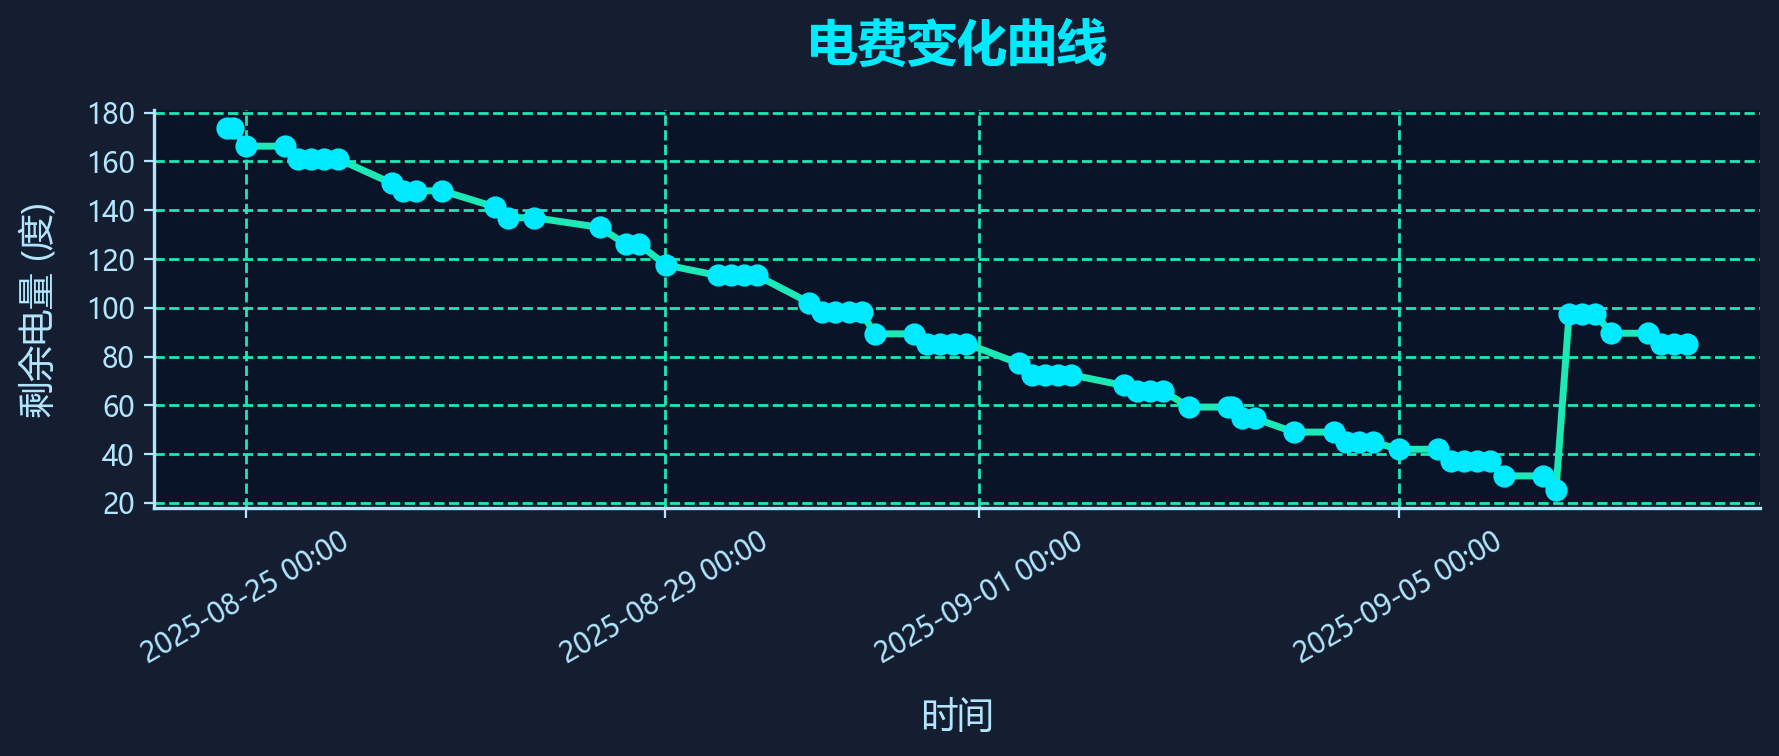
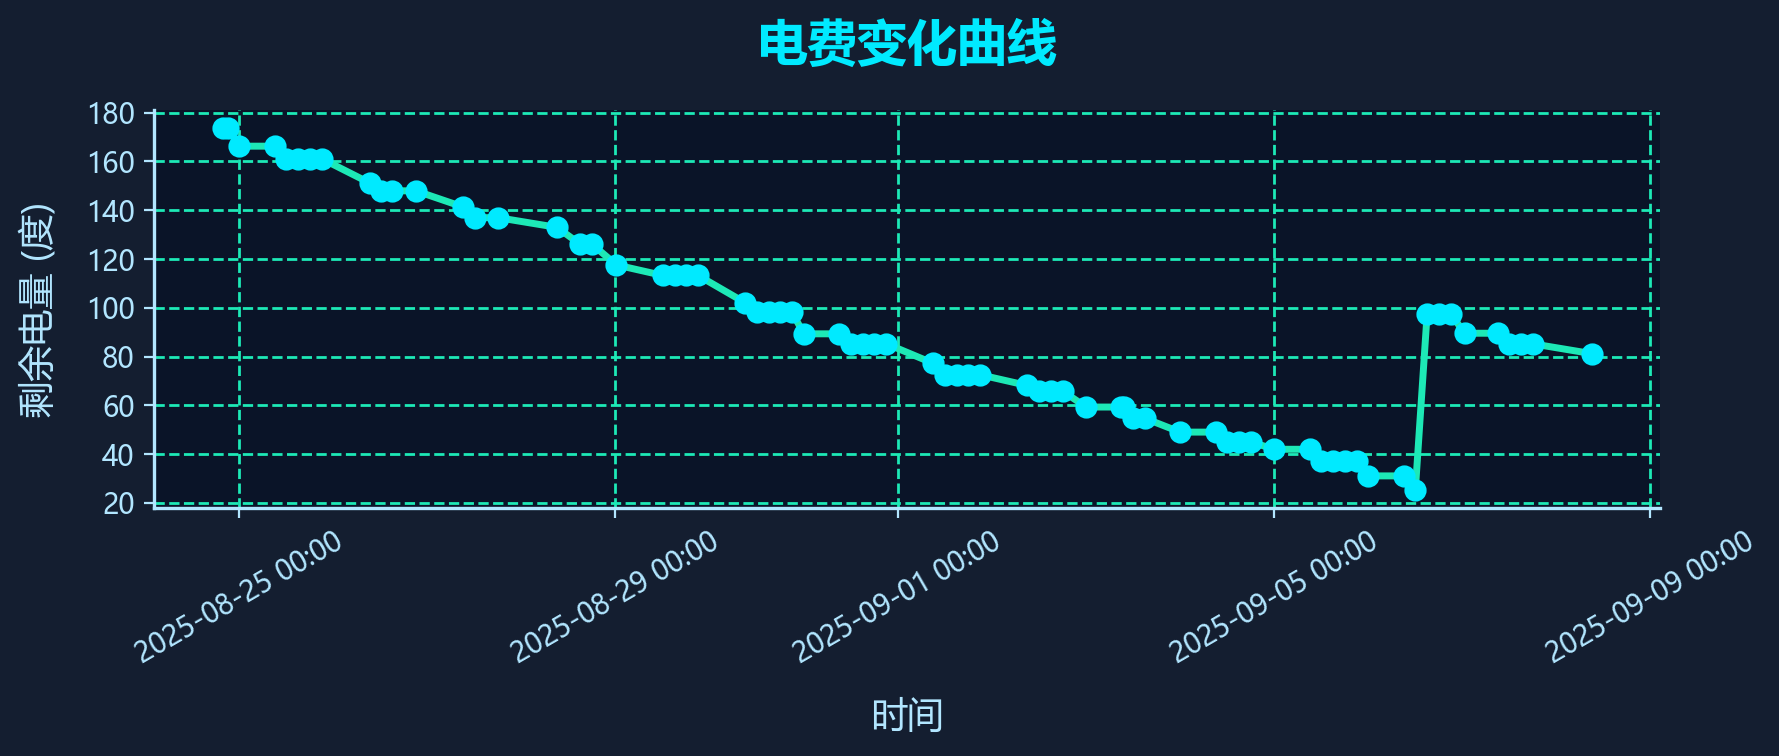
2025-09-08 09:03 自动提交电费变更

diff --git a/data/debug_page_source.html b/data/debug_page_source.html
@@ -2,7 +2,7 @@
     <meta http-equiv="Content-Type" content="text/html; charset=UTF-8">
     <meta http-equiv="X-UA-Compatible" content="IE=edge">
     <meta name="viewport" content="width=device-width, initial-scale=1, user-scalable=no">
-    <meta name="_csrf" content="ef40f2fb-1a5d-497a-b867-0076aea5b17c">
+    <meta name="_csrf" content="8c2276af-7daf-4e2d-9a2b-b1ff6871888e">
     <meta name="_csrf_header" content="X-CSRF-TOKEN">
     <link type="image/png" href="/epay/images/nju/icon.png" rel="shortcut icon">
     <link type="text/css" rel="stylesheet" href="/epay/css/wxpage/weui.min.css">
@@ -32,7 +32,7 @@
 
 
 <body>
-<div id="app"><div class="centent"><div class="top"><div class="clearfix"><span class="fl">持卡人姓名：<i>吴相民</i></span></div> <div class="clearfix"><span class="fl">校园卡余额：<i class="green">45.59元</i></span></div></div> <div class="line"></div> <div class="cont"><div class="clearfix"><span class="fl">缴费地址：<i>仙林校区 18幢 18栋第17层1702</i></span></div> <div class="clearfix"><span class="fl">剩余电量：<i>85.20度</i><em></em></span></div> <!----> <!----></div> <div class="num clearfix"><div style="display: flex; flex-wrap: wrap;"><span class="active">10元</span><span class="">20元</span><span class="">50元</span><span class="">100元</span><span class="">200元</span><span class="">自定义</span></div></div> <div class="inputbox" style="display: none;"><input type="text" placeholder="请输入充值金额" pattern="[0-9]*" maxlength="4" id="amount"></div> <div class="footer">充值</div> <div class="desc">充值时间：每天00:05-23:55</div> <div class="wapat"><div class="wapat-inner"><div class="wapat-title">错误！</div> <div class="wapat-btn-box"><div class="wapat-btn wapat-btn-ok">确定</div></div></div></div></div></div>
+<div id="app"><div class="centent"><div class="top"><div class="clearfix"><span class="fl">持卡人姓名：<i>吴相民</i></span></div> <div class="clearfix"><span class="fl">校园卡余额：<i class="green">38.59元</i></span></div></div> <div class="line"></div> <div class="cont"><div class="clearfix"><span class="fl">缴费地址：<i>仙林校区 18幢 18栋第17层1702</i></span></div> <div class="clearfix"><span class="fl">剩余电量：<i>81.18度</i><em></em></span></div> <!----> <!----></div> <div class="num clearfix"><div style="display: flex; flex-wrap: wrap;"><span class="active">10元</span><span class="">20元</span><span class="">50元</span><span class="">100元</span><span class="">200元</span><span class="">自定义</span></div></div> <div class="inputbox" style="display: none;"><input type="text" placeholder="请输入充值金额" pattern="[0-9]*" maxlength="4" id="amount"></div> <div class="footer">充值</div> <div class="desc">充值时间：每天00:05-23:55</div> <div class="wapat"><div class="wapat-inner"><div class="wapat-title">错误！</div> <div class="wapat-btn-box"><div class="wapat-btn wapat-btn-ok">确定</div></div></div></div></div></div>
 
 
 
